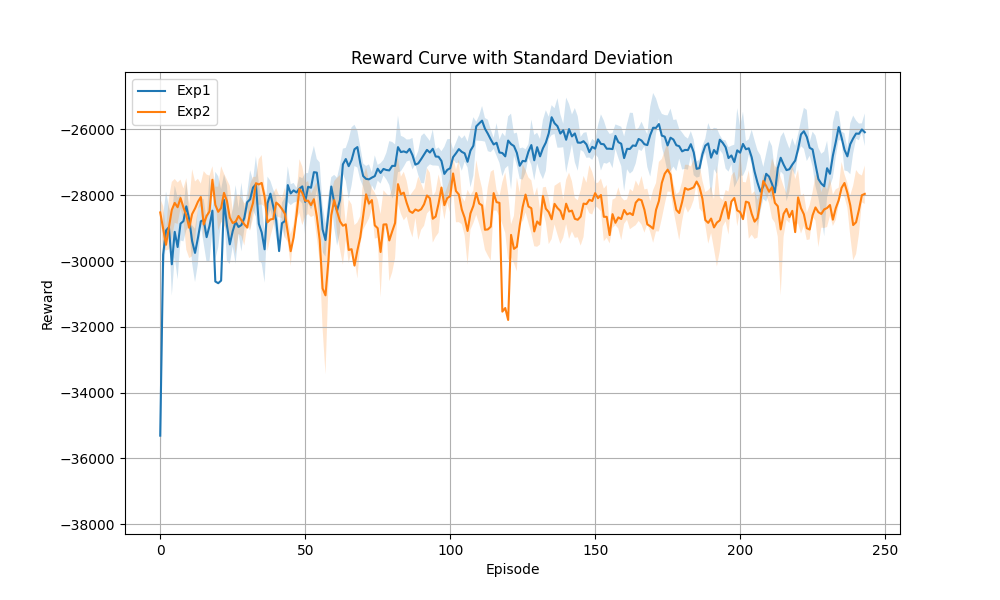
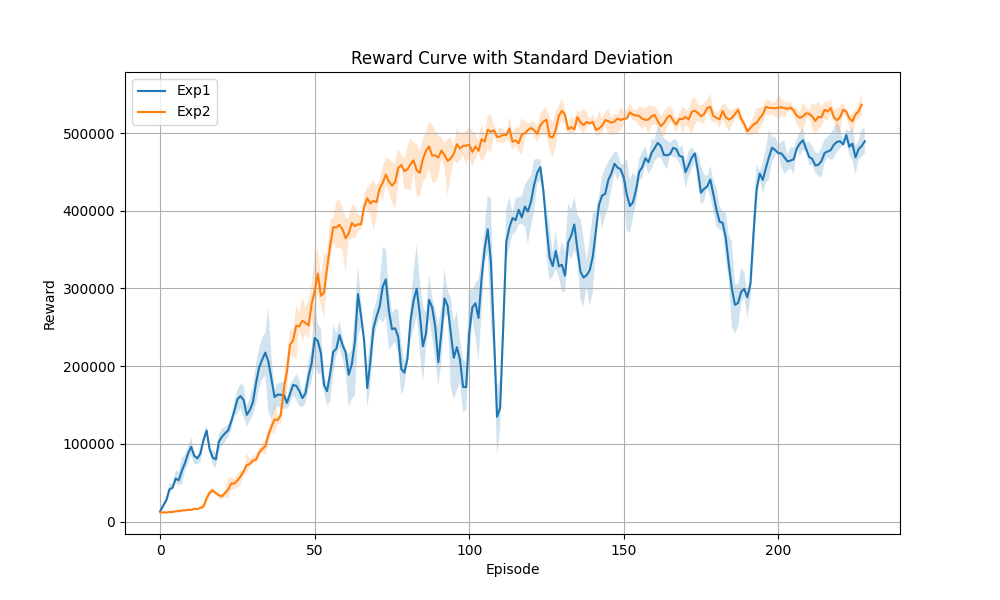
fix -pressure*occupancy

diff --git a/env_utils/global_local_wrapper.py b/env_utils/global_local_wrapper.py
@@ -257,7 +257,7 @@ class GlobalLocalInfoWrapper(gym.Wrapper):
         reward = pressure*occupancy
         waiting_times = [veh['waiting_time'] for veh in vehicle_state.values()]
         
-        return reward.mean() if len(waiting_times) > 0 else 0.0 # 返回平均等待时间作为奖励，如果没有车辆则返回0.0
+        return -reward.mean() if len(waiting_times) > 0 else 0.0 # 返回平均等待时间作为奖励，如果没有车辆则返回0.0
     # #############
     # reset & step
     # #############
